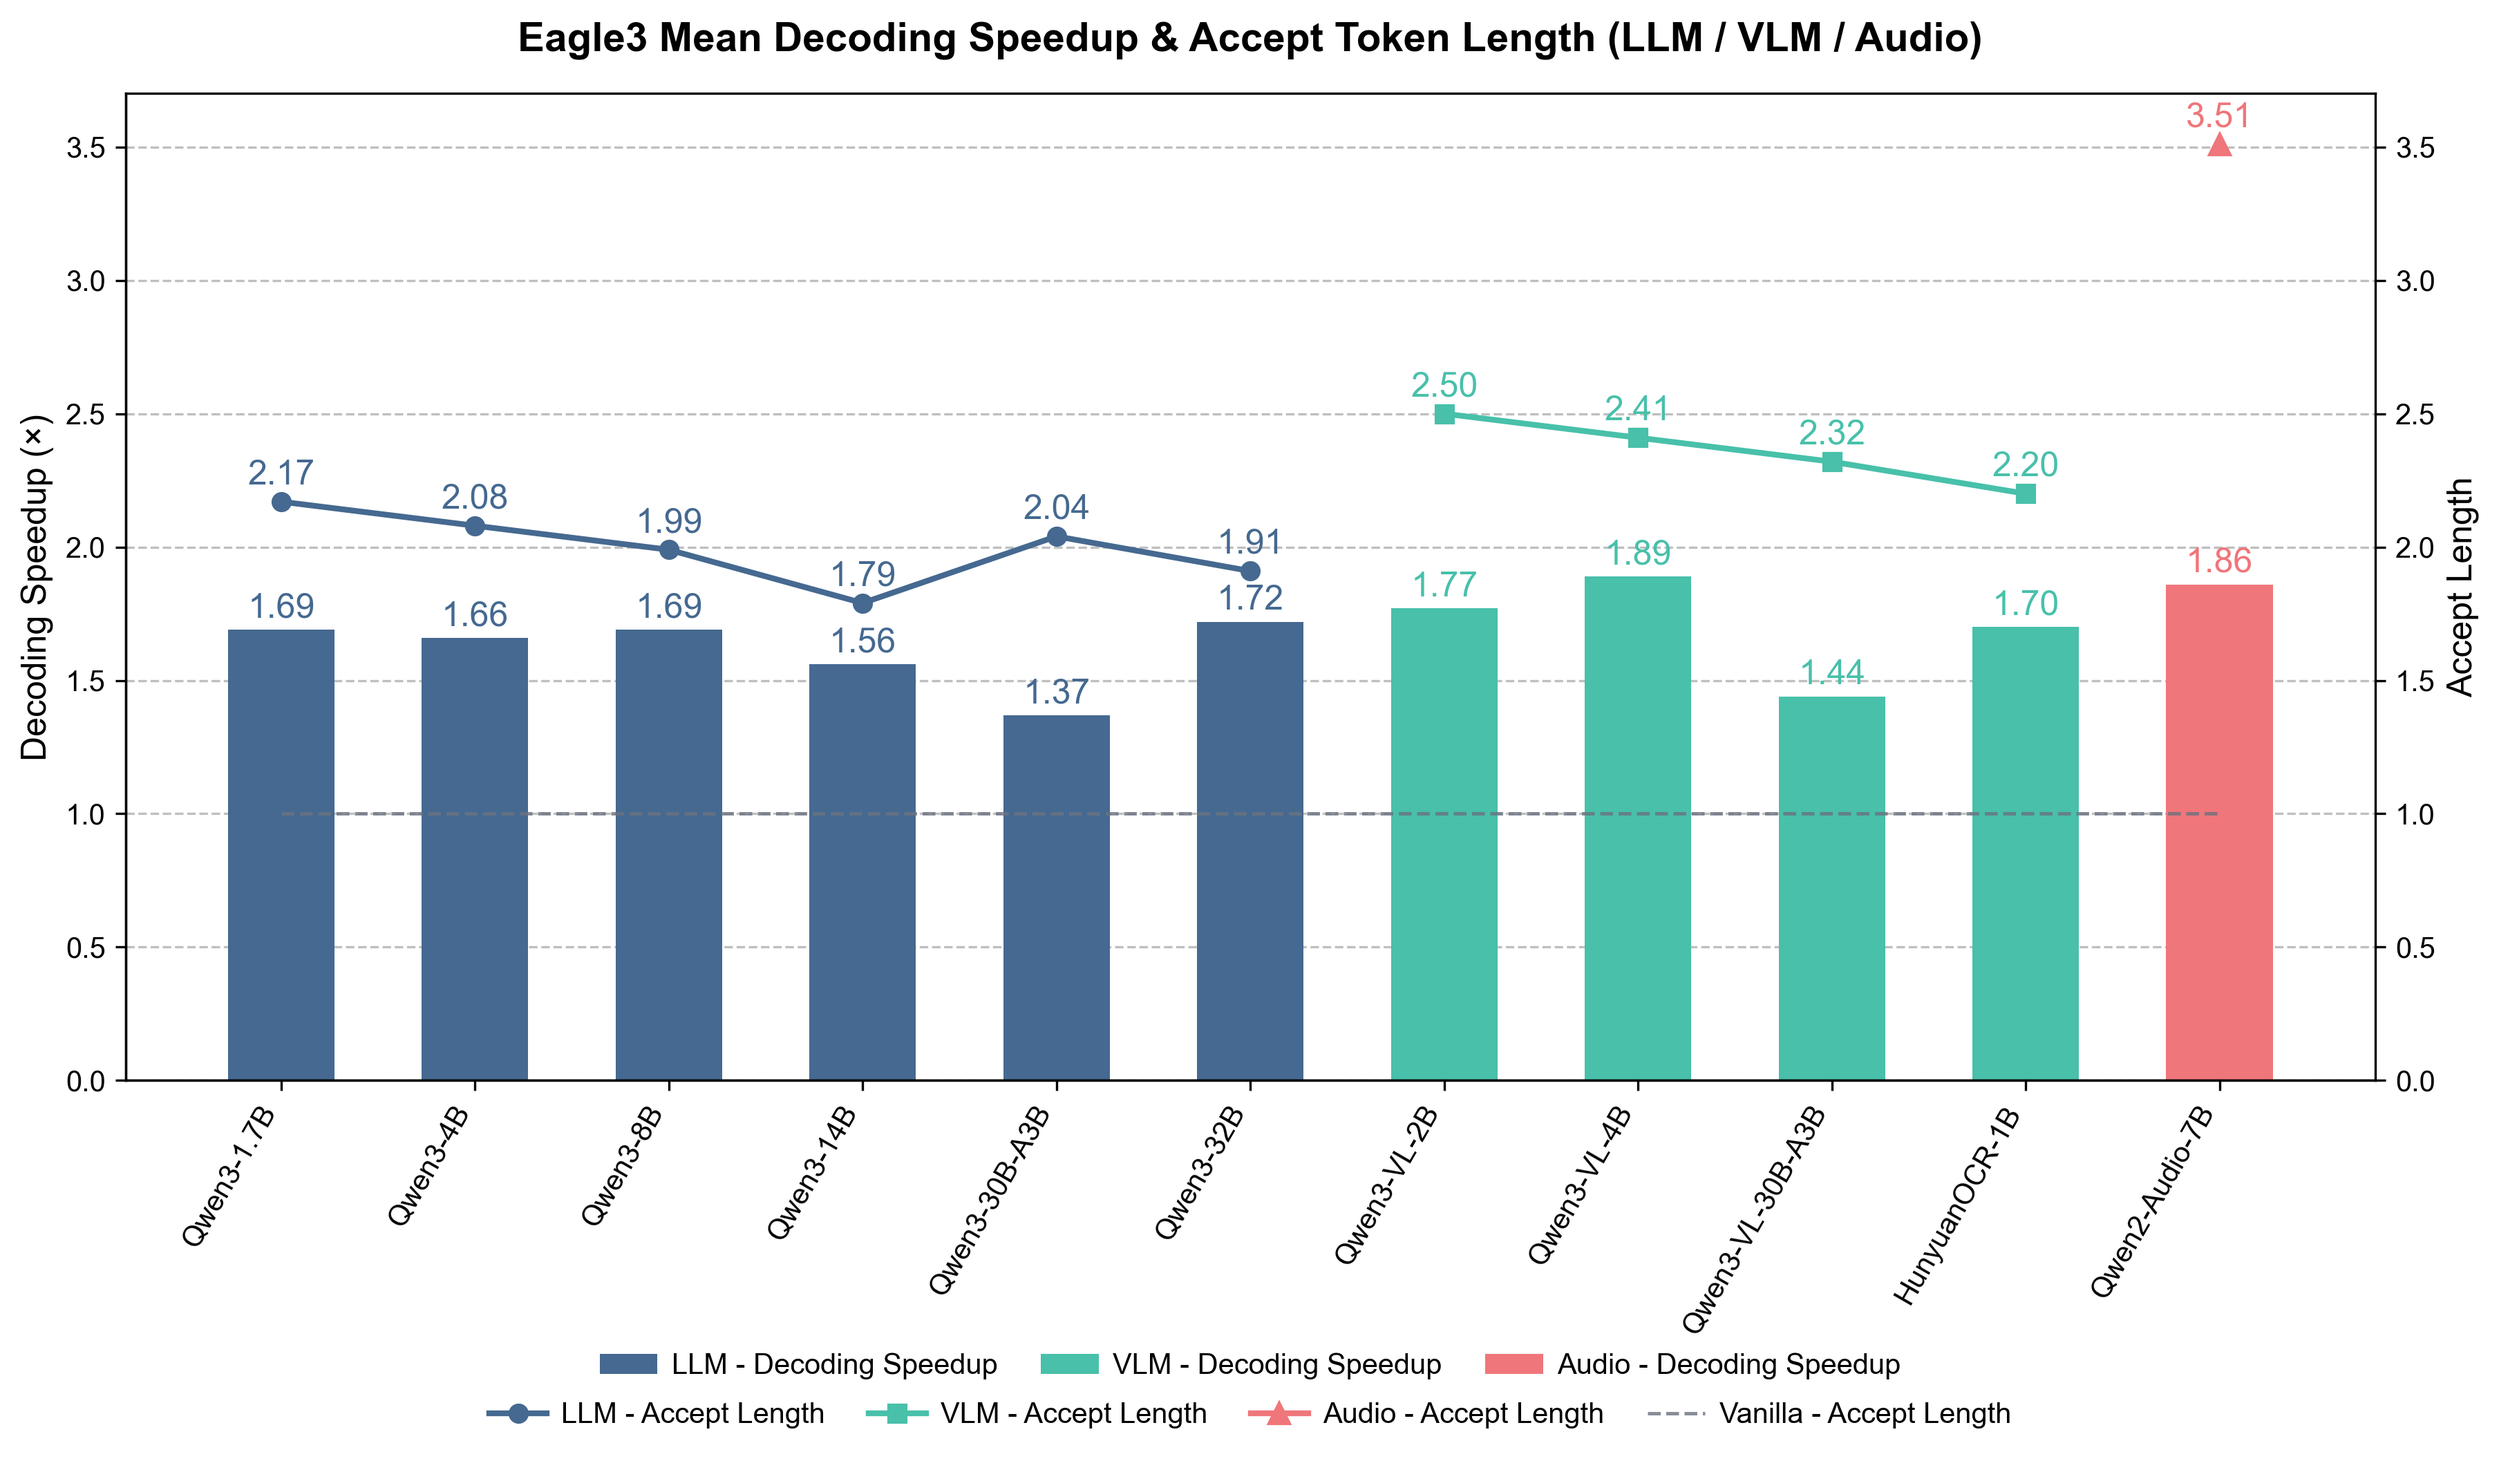
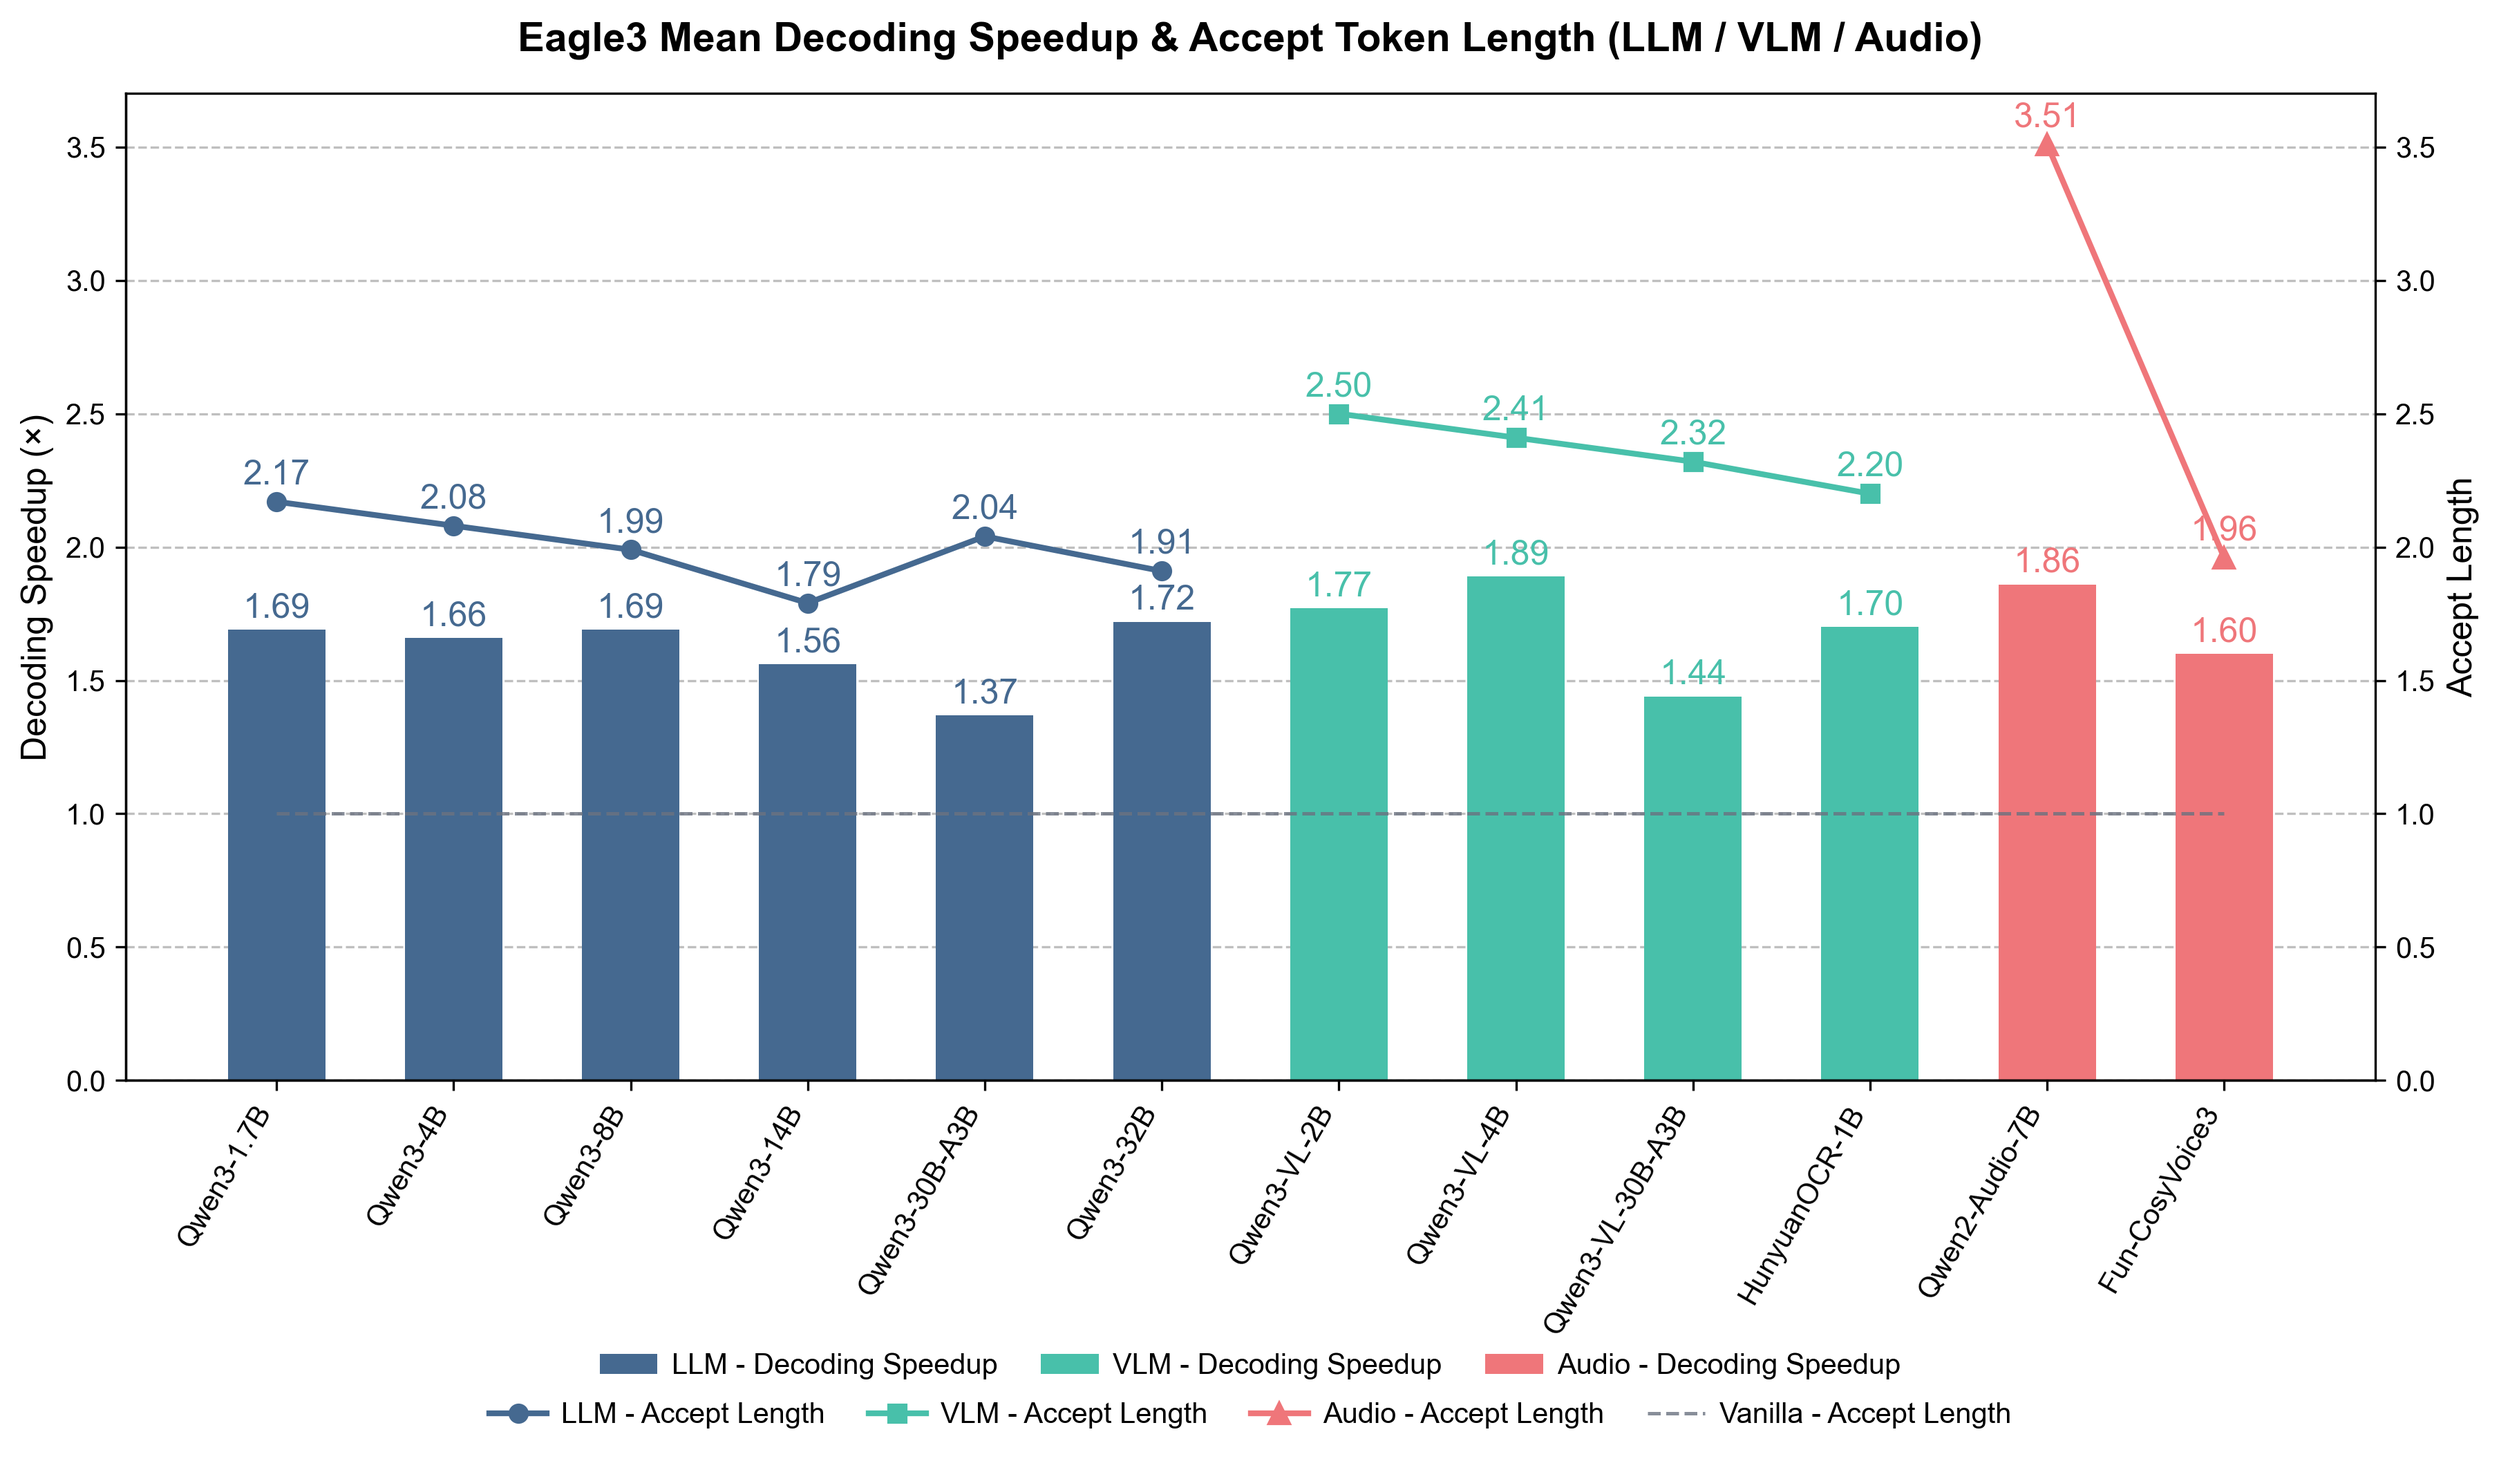
fix speculative decoding benchmark data (#195)

diff --git a/README.md b/README.md
@@ -170,6 +170,7 @@ A more accessible, comprehensive, and efficient toolkit for large model compress
         <ul style="padding-left: 0; list-style-position: inside;">
           <li><a href="https://huggingface.co/collections/Qwen/qwen3-omni">Qwen3-Omni</a></li>
           <li><a href="https://huggingface.co/collections/Qwen/qwen2-audio">Qwen2-Audio</a></li>
+          <li><a href="https://huggingface.co/FunAudioLLM/Fun-CosyVoice3-0.5B-2512">Fun-CosyVoice3</a></li>
         </ul>
       </td>
       <td>
@@ -341,7 +342,7 @@ For more detaileds, please refer to the [Deployment Documentation](https://angel
 
 ### 1. Speculative Decoding
 
-We evaluated the Eagle3 model trained by AngelSlim on tasks including code generation, mathematical reasoning, instruction following, text generation, and multimodal understanding using vLLM. The inference acceleration and context length performance of our trained model under the settings of num_speculative_tokens = 2 or 4 are presented as follows.
+We evaluated the Eagle3 model trained by AngelSlim on tasks including code generation, mathematical reasoning, instruction following, text generation, and multimodal understanding using vLLM. The inference acceleration and context length performance of our trained model under the settings of num_speculative_tokens = 2 or 4 are presented as follows, with an accept length of 1.8–3.5 and a maximum speedup of 1.4–1.9×.
 
 <p align="center">
   <picture>
@@ -636,13 +637,11 @@ Benchmark results for Qwen3-VL series models using Eagle3 speculative decoding o
 ##### 1.2.2 HunyuanOCR Model
 
 Benchmark results for HunyuanOCR using Eagle3 speculative decoding on vLLM (v0.13.0) across OCR tasks, using a single NVIDIA H20 GPU (**tp=1, ep=1, num_speculative_tokens=4, batch_size=1, output_len=1024**).
-
 <table><thead>
   <tr>
     <th>Model</th>
     <th>Method</th>
-    <th>OCR-Bench-Internal</th>
-    <th></th>
+    <th colspan="2">OCR-Bench-Internal</th>
   </tr></thead>
 <tbody>
   <tr>
@@ -652,13 +651,12 @@ Benchmark results for HunyuanOCR using Eagle3 speculative decoding on vLLM (v0.1
     <td>accept length</td>
   </tr>
   <tr>
-    <td>Hunyuan-OCR</td>
+    <td rowspan="2">Hunyuan-OCR</td>
     <td>Vanilla</td>
     <td>71.21</td>
     <td>1</td>
   </tr>
   <tr>
-    <td></td>
     <td>Eagle3</td>
     <td>120.75</td>
     <td>2.2</td>
@@ -686,13 +684,12 @@ Benchmark results for Qwen2-Audio using Eagle3 speculative decoding on vLLM (v0.
     <td>accept length</td>
   </tr>
   <tr>
-    <td>Qwen2-Audio-7B-Instruct</td>
+    <td rowspan="2">Qwen2_Audio</td>
     <td>Vanilla</td>
     <td>78.76</td>
     <td>1</td>
   </tr>
   <tr>
-    <td></td>
     <td>Eagle3</td>
     <td>146.66</td>
     <td>3.51</td>
@@ -708,7 +705,7 @@ Benchmark results for Fun-CosyVoice3 using Eagle3 speculative decoding across **
   <tr>
     <th>Model</th>
     <th>Method</th>
-    <th colspan="2">LibriTTS</a></th>
+    <th colspan="2">LibriTTS</th>
   </tr></thead>
 <tbody>
   <tr>
@@ -718,13 +715,12 @@ Benchmark results for Fun-CosyVoice3 using Eagle3 speculative decoding across **
     <td>accept length</td>
   </tr>
   <tr>
-    <td>Fun-CosyVoice3</td>
+    <td rowspan="2">Fun-CosyVoice3</td>
     <td>Vanilla</td>
     <td>-</td>
     <td>1</td>
   </tr>
   <tr>
-    <td></td>
     <td>Eagle3</td>
     <td>-</td>
     <td>1.96</td>
@@ -732,7 +728,7 @@ Benchmark results for Fun-CosyVoice3 using Eagle3 speculative decoding across **
 </tbody>
 </table>
 
-> Adapted for Transformers backend inference, only displays accept length.
+> Adapted for Transformers backend inference, only displays accept length. vLLM speedup ~1.6×, estimated from baseline LLM speedup.
 
 ### 2. Quantization
 

diff --git a/README_cn.md b/README_cn.md
@@ -171,6 +171,7 @@
         <ul style="padding-left: 0; list-style-position: inside;">
           <li><a href="https://huggingface.co/collections/Qwen/qwen3-omni">Qwen3-Omni</a></li>
           <li><a href="https://huggingface.co/collections/Qwen/qwen2-audio">Qwen2-Audio</a></li>
+          <li><a href="https://huggingface.co/FunAudioLLM/Fun-CosyVoice3-0.5B-2512">Fun-CosyVoice3</a></li>
         </ul>
       </td>
       <td>
@@ -345,7 +346,8 @@ bash scripts/deploy/lm_eval.sh -d 0,1 -t 2 -g 0.8 -r $RESULT_PATH -b "auto" --ta
 
 ### 1、投机采样
 
-我们使用vLLM在代码、数学、指令跟随、文本生成、多模态理解等任务上评测了AngelSlim所训练的Eagle3模型，设置num_speculative_tokens=2 or 4 下我们所训的模型加速和接收长度表现如下所示。
+我们使用vLLM在代码、数学、指令跟随、文本生成、多模态理解等任务上评测了AngelSlim所训练的Eagle3模型，设置num_speculative_tokens=2 or 4 下我们所训的模型加速和接收长度表现如下所示，接收长度在1.8-3.5，最高加速可达1.4-1.9倍。
+
 
 <p align="center">
   <picture>
@@ -640,13 +642,11 @@ bash scripts/deploy/lm_eval.sh -d 0,1 -t 2 -g 0.8 -r $RESULT_PATH -b "auto" --ta
 
 我们使用(v0.13.0)评测了HunyuanOCR Eagle3模型在 **OCR-Bench** 上的接收长度和吞吐。结果是在单张H20上用以下设置测得：**tp=1, ep=1, num_speculative_tokens=4, batch_size=1, output_len=1024**。
 
-
 <table><thead>
   <tr>
     <th>Model</th>
     <th>Method</th>
-    <th>OCR-Bench-Internal</th>
-    <th></th>
+    <th colspan="2">OCR-Bench-Internal</th>
   </tr></thead>
 <tbody>
   <tr>
@@ -656,13 +656,12 @@ bash scripts/deploy/lm_eval.sh -d 0,1 -t 2 -g 0.8 -r $RESULT_PATH -b "auto" --ta
     <td>accept length</td>
   </tr>
   <tr>
-    <td>Hunyuan-OCR</td>
+    <td rowspan="2">Hunyuan-OCR</td>
     <td>Vanilla</td>
     <td>71.21</td>
     <td>1</td>
   </tr>
   <tr>
-    <td></td>
     <td>Eagle3</td>
     <td>120.75</td>
     <td>2.2</td>
@@ -690,13 +689,12 @@ bash scripts/deploy/lm_eval.sh -d 0,1 -t 2 -g 0.8 -r $RESULT_PATH -b "auto" --ta
     <td>accept length</td>
   </tr>
   <tr>
-    <td>Qwen2-Audio-7B-Instruct</td>
+    <td rowspan="2">Qwen2_Audio</td>
     <td>Vanilla</td>
     <td>78.76</td>
     <td>1</td>
   </tr>
   <tr>
-    <td></td>
     <td>Eagle3</td>
     <td>146.66</td>
     <td>3.51</td>
@@ -711,7 +709,7 @@ bash scripts/deploy/lm_eval.sh -d 0,1 -t 2 -g 0.8 -r $RESULT_PATH -b "auto" --ta
   <tr>
     <th>Model</th>
     <th>Method</th>
-    <th colspan="2">LibriTTS</a></th>
+    <th colspan="2">LibriTTS</th>
   </tr></thead>
 <tbody>
   <tr>
@@ -721,13 +719,12 @@ bash scripts/deploy/lm_eval.sh -d 0,1 -t 2 -g 0.8 -r $RESULT_PATH -b "auto" --ta
     <td>accept length</td>
   </tr>
   <tr>
-    <td>Fun-CosyVoice3</td>
+    <td rowspan="2">Fun-CosyVoice3</td>
     <td>Vanilla</td>
     <td>-</td>
     <td>1</td>
   </tr>
   <tr>
-    <td></td>
     <td>Eagle3</td>
     <td>-</td>
     <td>1.96</td>
@@ -735,7 +732,7 @@ bash scripts/deploy/lm_eval.sh -d 0,1 -t 2 -g 0.8 -r $RESULT_PATH -b "auto" --ta
 </tbody>
 </table>
 
-> Adapted for Transformers backend inference, only displays accept length.
+> Adapted for Transformers backend inference, only displays accept length. vLLM speedup ~1.6×, estimated from baseline LLM speedup.
 
 ### 2、量化
 
